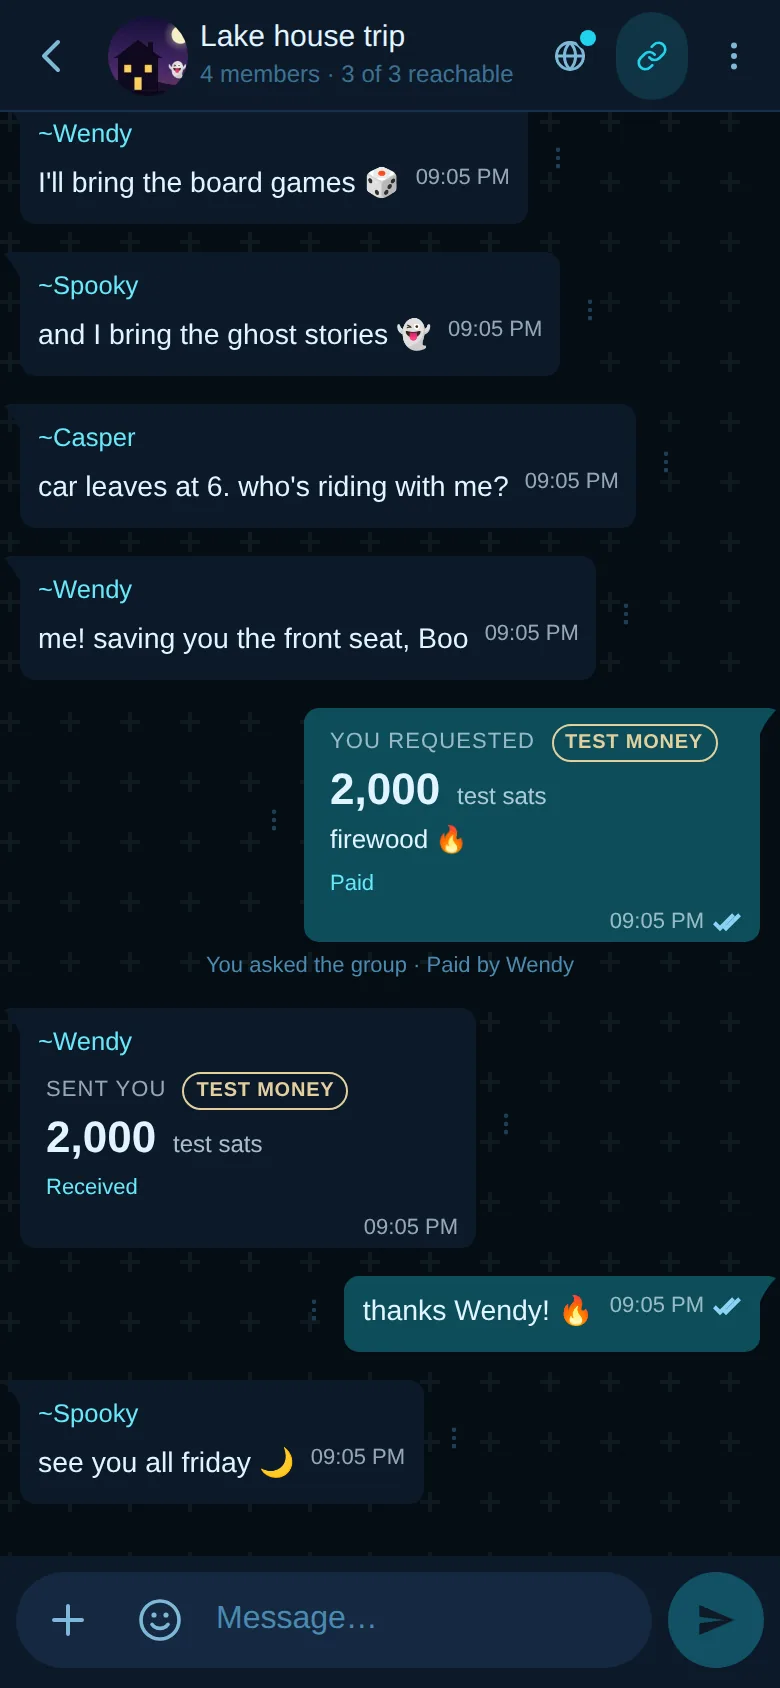
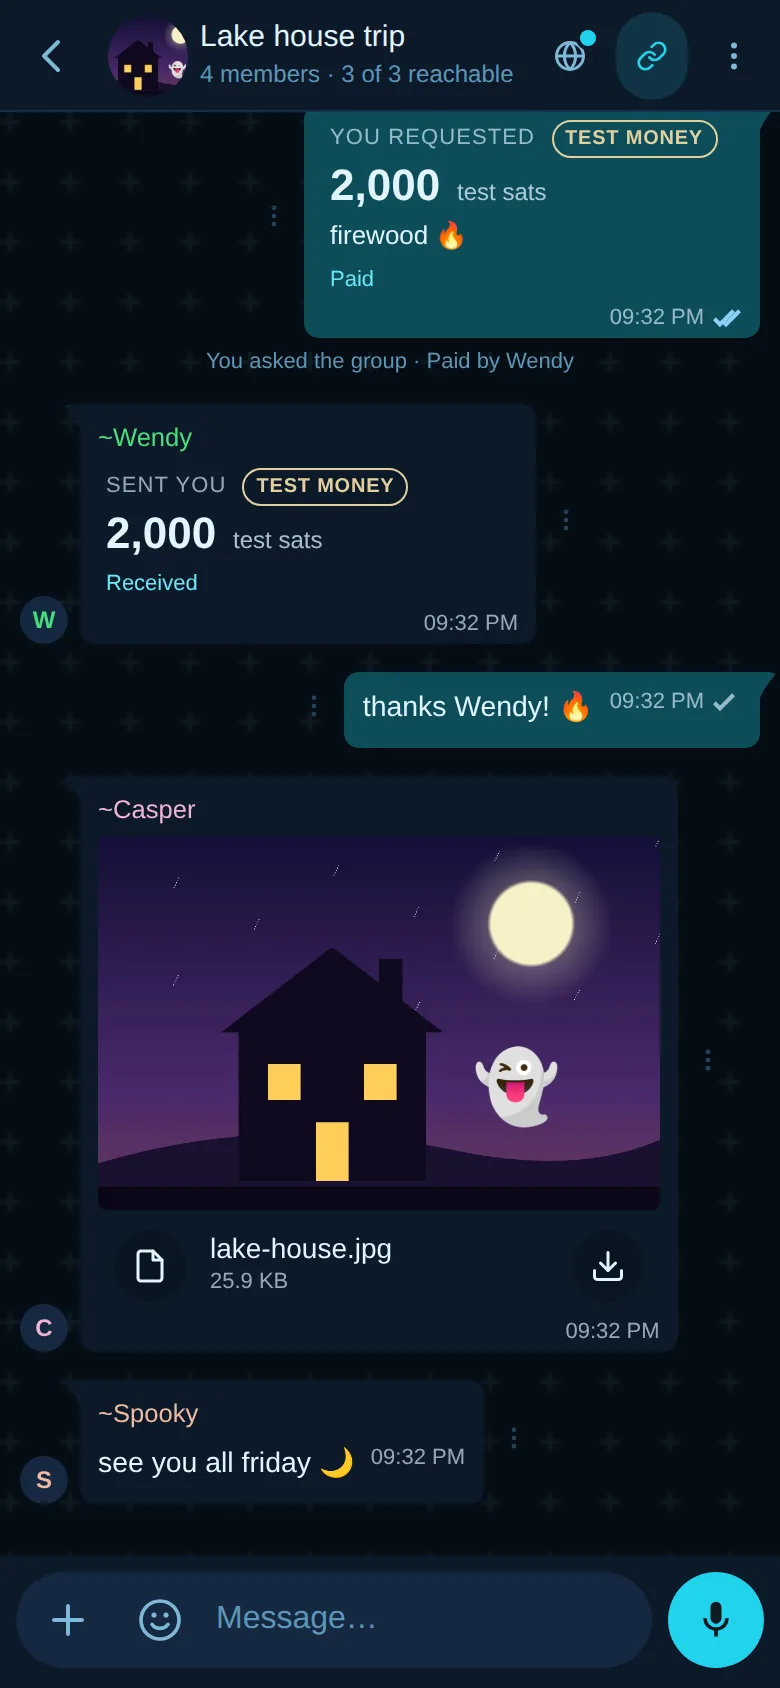
docs(website): the groups shots show the photo sent to the group, whole, on the computer and the phone (#1817)
* docs(website): the groups shots show the photo sent to the group, whole, on the computer and the phone

diff --git a/apps/website/scripts/capture/groups.spec.ts b/apps/website/scripts/capture/groups.spec.ts
@@ -51,12 +51,6 @@ test("a private group of four, desktop and phone", async ({ browser, baseURL }) 
     [casper, "finally a group chat with just us in it"],
     [wendy, "I'll bring the board games 🎲"],
     [spooky, "and I bring the ghost stories 👻"],
-  ], everyone);
-
-  // Casper sends the house's photo to the group: each member's app fetches it from a member who has it.
-  await casper.page.getByTestId("file-input").setInputFiles({ name: "lake-house.jpg", mimeType: "image/jpeg", buffer: await sceneImage(casper) });
-  for (const p of everyone) await expect(chat(p).getByTestId("file-bubble").first().locator("img")).toBeVisible({ timeout: 120_000 });
-  await converse([
     [casper, "car leaves at 6. who's riding with me?"],
     [wendy, "me! saving you the front seat, Boo"],
   ], everyone);
@@ -73,10 +67,12 @@ test("a private group of four, desktop and phone", async ({ browser, baseURL }) 
   await ask.getByTestId("payment-pay").click({ timeout: 90_000 });
   await chat(wendy).getByTestId("payment-review").getByRole("button", { name: "Approve payment" }).click();
   await expect(chat(boo).getByTestId("group-pay-caption").filter({ hasText: "asked the group" })).toContainText("Paid by Wendy", { timeout: 90_000 });
-  await converse([
-    [boo, "thanks Wendy! 🔥"],
-    [spooky, "see you all friday 🌙"],
-  ], everyone);
+  await converse([[boo, "thanks Wendy! 🔥"]], everyone);
+
+  // Casper sends the house's photo to the group, late enough that both shots still show all of it: each member's app fetches it from a member who has it.
+  await casper.page.getByTestId("file-input").setInputFiles({ name: "lake-house.jpg", mimeType: "image/jpeg", buffer: await sceneImage(casper) });
+  for (const p of everyone) await expect(chat(p).getByTestId("file-bubble").first().locator("img")).toBeVisible({ timeout: 120_000 });
+  await converse([[spooky, "see you all friday 🌙"]], everyone);
   await boo.page.waitForTimeout(2000);
   await toBottom(boo);
   await shot(boo, "groups.png");

diff --git a/apps/website/components/home/NextSection.tsx b/apps/website/components/home/NextSection.tsx
@@ -88,12 +88,12 @@ const SHOTS: Record<string, Shot> = {
   },
   groups: {
     src: "/screenshots/current/groups.webp",
-    alt: "A private group called Lake house trip: its picture, four members talking, and a request to the group paid by Wendy",
+    alt: "A private group called Lake house trip: its picture, four members talking, a request to the group paid by Wendy, and a photo Casper sent",
     from: "dev",
     width: 2560,
     height: 1640,
-    // The conversation's end: the request to the group paid by Wendy, and the voices around it.
-    crop: { x: 0.36, y: 0.36, w: 0.64 },
+    // The conversation's end: the photo Casper sent, whole, between the thanks for the paid request and the goodbye.
+    crop: { x: 0.36, y: 0.34, w: 0.64 },
     mobile: "/screenshots/current/groups-mobile.webp",
   },
   identities: {

diff --git a/apps/website/scripts/capture/README.md b/apps/website/scripts/capture/README.md
@@ -47,7 +47,7 @@ funded is reported and shot as the app shows it.
 | `calls.spec.ts` | `call`, `call-mobile` | "Be a little closer": an audio call (a legacy chat, the only kind that rings) |
 | `sats.spec.ts` | `sats`, `sats-mobile` | "A little thank-you": eight Testnet wallets made (USDT made, the rest funded), 2,100 sats received in the chat, a request paid over Ark, the payment deck open |
 | `services.spec.ts` | `services-chat`, `services-mobile` | "Made here. Open there.": a photo gallery on Boo's computer shared with Casper in the extension; the phone's Services tab says what sharing needs |
-| `groups.spec.ts` | `groups`, `groups-mobile` | "Bring the whole group": a private group with a picture and four members, joined by its link, with a photo sent to the group |
+| `groups.spec.ts` | `groups`, `groups-mobile` | "Bring the whole group": a private group with a picture and four members, joined by its link, a request to the group paid by one member, and a photo sent to the group last so both shots show all of it |
 | `identities.spec.ts` | `identities-chat`, `identities-chat-mobile` | "Prove who you are": SSH, OpenPGP, Bitcoin (signet) and Nostr proofs, verified on the contact's side |
 | `profiles.spec.ts` | `profiles` | "Your space": the Profile page with three profiles and backups |
 | `readme.spec.ts` | `x-readme-desktop`, `x-readme-phone` (scratch only) | The README's hero, in Dark: Boo's chat with Casper (a voice message, a photo) on a computer and a phone, with nothing reaching the Internet. Then `node apps/website/scripts/capture/readme-hero.mjs <scratch folder>` writes `docs/assets/readme/hero.webp` |
